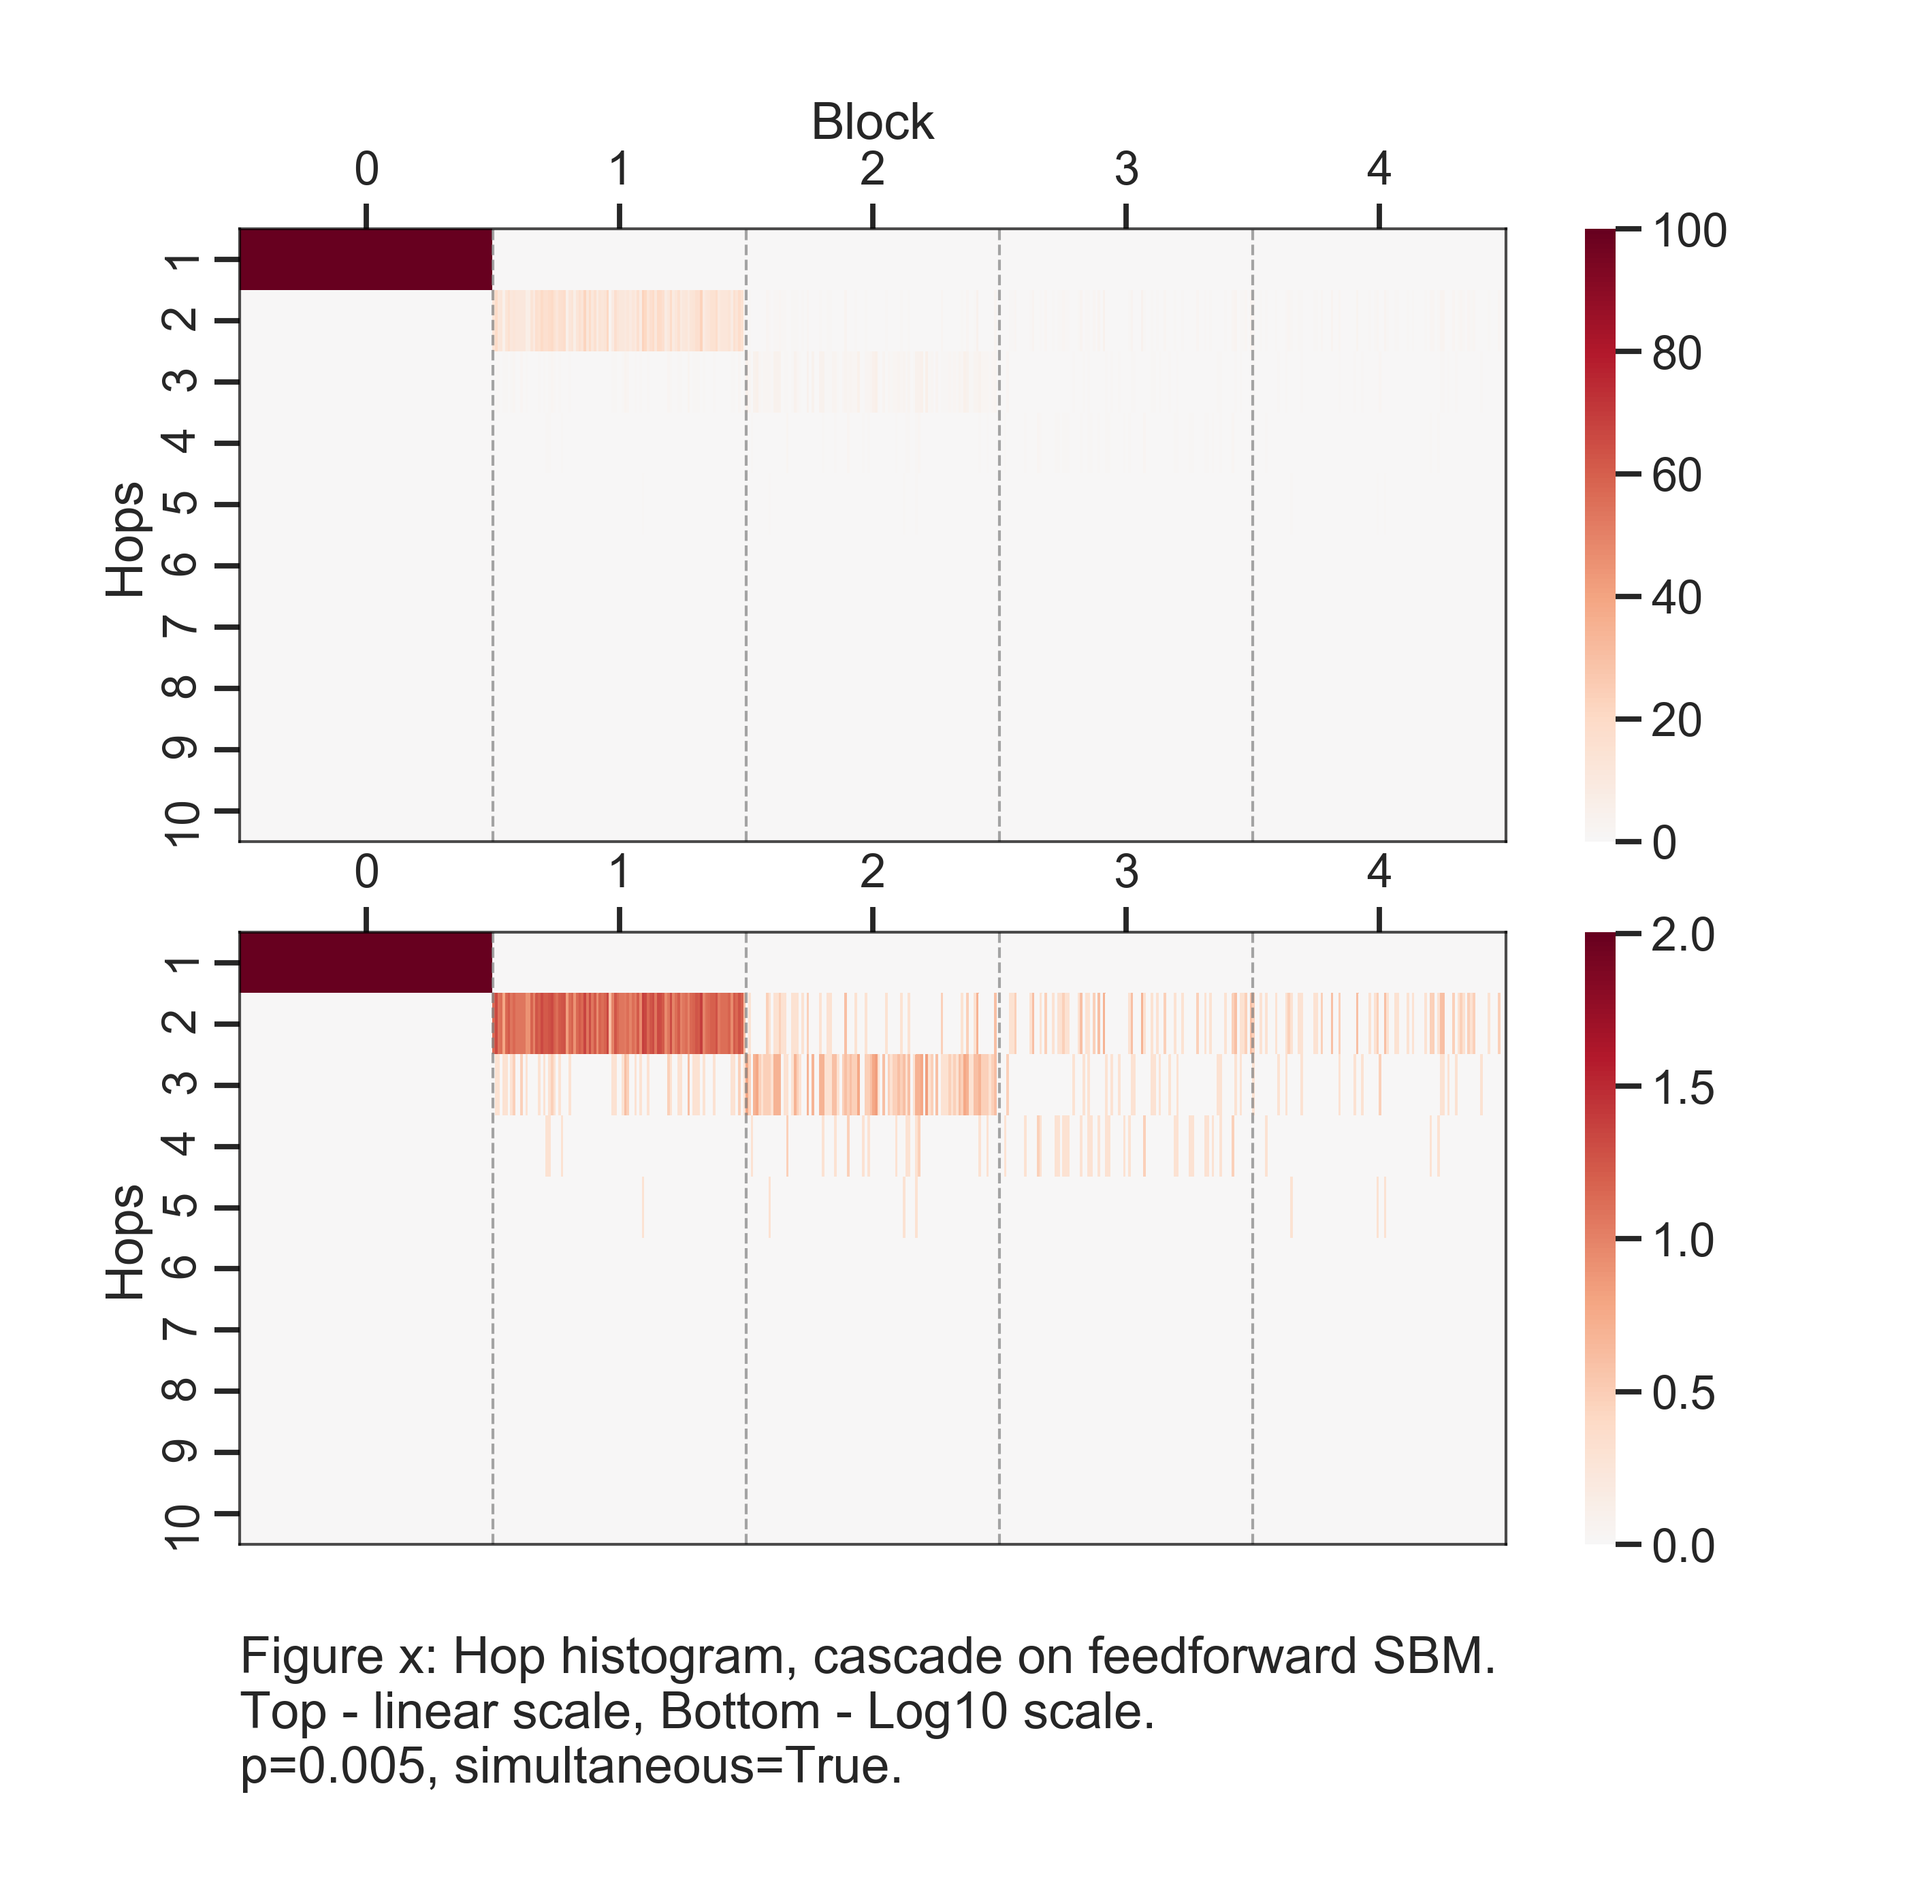
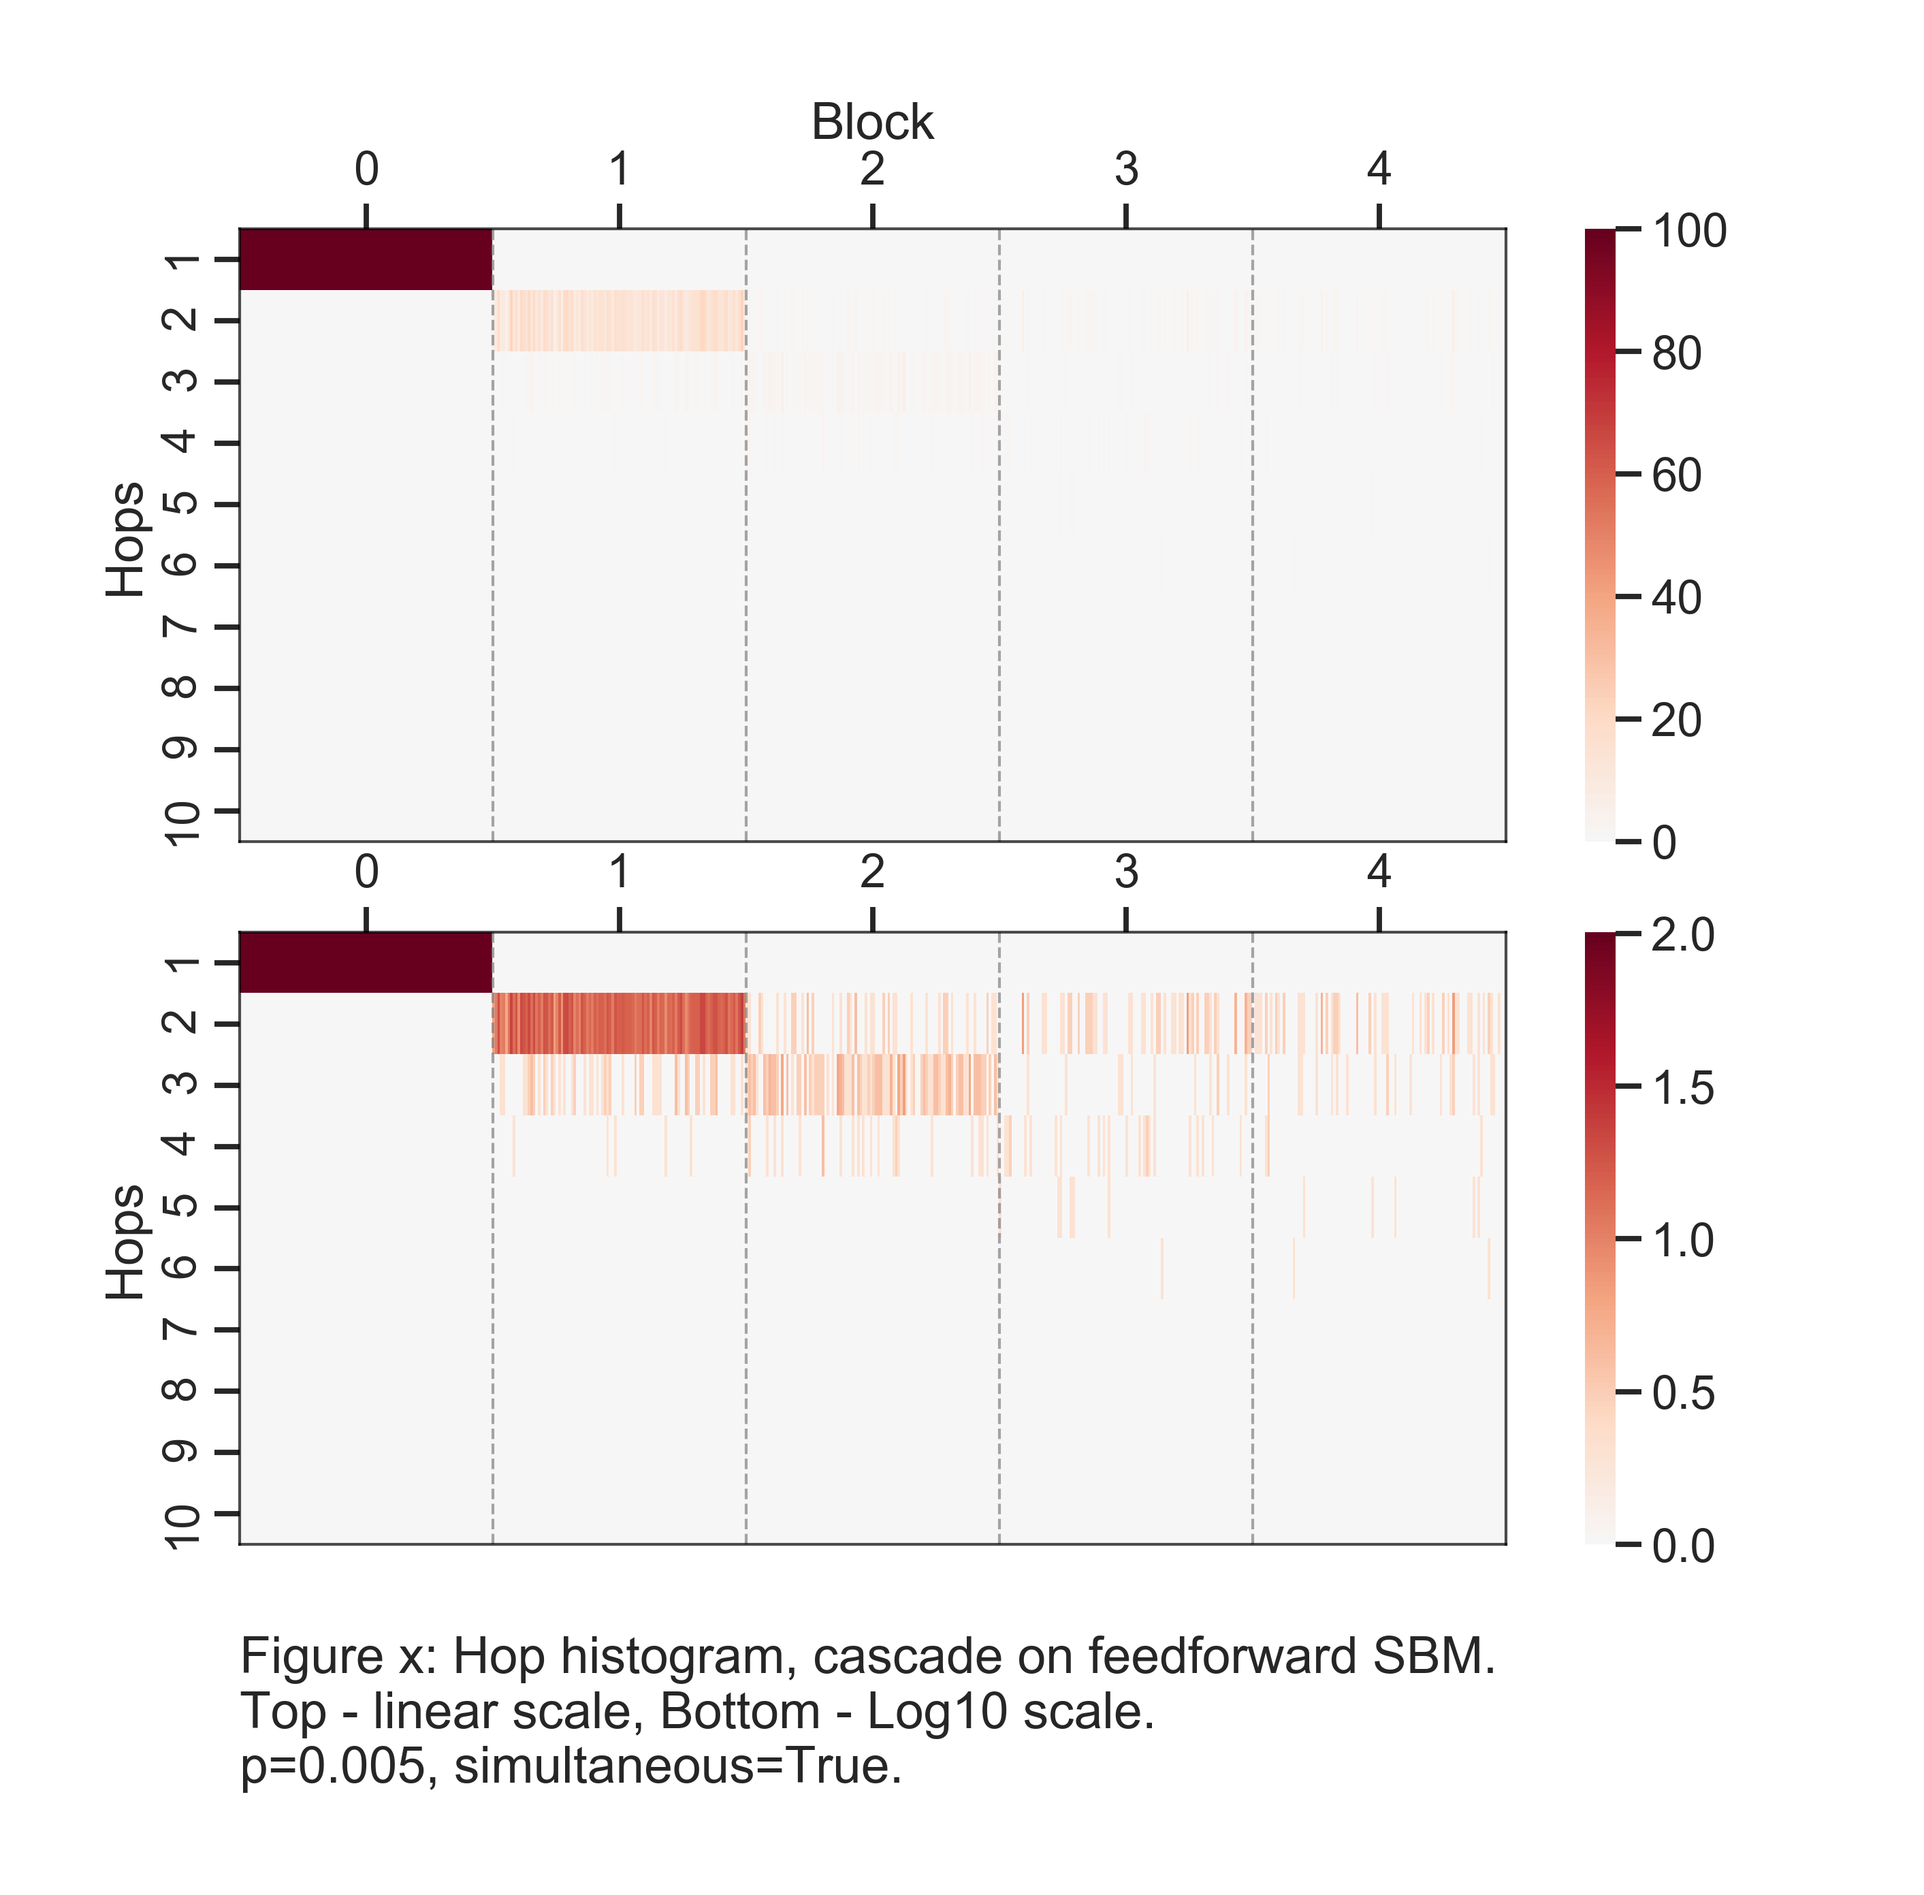
update tutorial

Changed region(s): [[0.2491, 0.5253, 0.7785, 0.6489]]

diff --git a/notebooks/111.0-BDP-revamp-cascade.py b/notebooks/111.0-BDP-revamp-cascade.py
@@ -3,9 +3,7 @@
 import os
 
 import matplotlib.pyplot as plt
-import networkx as nx
 import numpy as np
-import pandas as pd
 import seaborn as sns
 from graspy.simulations import sbm
 from src.io import savefig
@@ -180,29 +178,33 @@ stashfig("sbm")
 
 # %% [markdown]
 # ##
-p = 0.005
+p = 0.05
 max_hops = 10
+n_init = 100
 simultaneous = True
 transition_probs = to_transmission_matrix(A, p)
+start_nodes = np.arange(n_feedforward)
 
-cdispatch = TraverseDispatcher(Cascade, transition_probs, allow_loops=False, n_init=100)
-if simultaneous:
-    hit_hist = cdispatch.start(np.arange(n_feedforward))
-else:
-    hit_hist = np.zeros((n_verts, max_hops))
-    for i in np.arange(n_feedforward):
-        hit_hist += cdispatch.start(i)
+cdispatch = TraverseDispatcher(
+    Cascade,
+    transition_probs,
+    allow_loops=False,
+    n_init=n_init,
+    simultaneous=simultaneous,
+)
+hit_hist = cdispatch.multistart(start_nodes)
+
 fig, axs = plt.subplots(
     3, 1, figsize=(10, 10), gridspec_kw=dict(height_ratios=[0.45, 0.45, 0.1])
 )
 ax = axs[0]
-matrixplot(hit_hist.T, ax=ax, col_meta=labels, cbar=True)
+matrixplot(hit_hist.T, ax=ax, col_sort_class=labels, cbar=True)
 ax.set_xlabel("Block")
 ax.set_yticks(np.arange(1, max_hops + 1) - 0.5)
 ax.set_yticklabels(np.arange(1, max_hops + 1))
 ax.set_ylabel("Hops")
 ax = axs[1]
-matrixplot(np.log10(hit_hist.T + 1), ax=ax, col_meta=labels, cbar=True)
+matrixplot(np.log10(hit_hist.T + 1), ax=ax, col_sort_class=labels, cbar=True)
 ax.set_yticks(np.arange(1, max_hops + 1) - 0.5)
 ax.set_yticklabels(np.arange(1, max_hops + 1))
 ax.set_ylabel("Hops")
@@ -217,32 +219,40 @@ stashfig(f"hop-hist-cascade-p{p}-simult{simultaneous}")
 # %% [markdown]
 # ##
 transition_probs = to_markov_matrix(A)
+start_nodes = np.arange(n_feedforward)
 max_hops = 10
+n_init = 100
+
 cdispatch = TraverseDispatcher(
     RandomWalk,
     transition_probs,
     allow_loops=False,
-    n_init=100,
-    max_hops=10,
+    n_init=n_init,
+    max_hops=max_hops,
     stop_nodes=np.arange((n_blocks - 1) * n_feedforward, n_blocks * n_feedforward),
+    simultaneous=False,
 )
-start_nodes = np.arange(n_feedforward)
-hit_hist = np.zeros((n_verts, max_hops))
-for start_node in start_nodes:
-    hit_hist += cdispatch.start(start_node)
+
+hit_hist = cdispatch.multistart(start_nodes)
+
 fig, axs = plt.subplots(
     3, 1, figsize=(10, 10), gridspec_kw=dict(height_ratios=[0.45, 0.45, 0.1])
 )
 ax = axs[0]
-matrixplot(hit_hist.T, ax=ax, col_meta=labels, cbar=True)
+matrixplot(hit_hist.T, ax=ax, col_sort_class=labels, cbar=True)
 ax.set_xlabel("Block")
 ax.set_ylabel("Hops")
+ax.set_yticks(np.arange(1, max_hops + 1) - 0.5)
+ax.set_yticklabels(np.arange(1, max_hops + 1))
 ax = axs[1]
-matrixplot(np.log10(hit_hist.T + 1), ax=ax, col_meta=labels, cbar=True)
+matrixplot(np.log10(hit_hist.T + 1), ax=ax, col_sort_class=labels, cbar=True)
 ax.set_ylabel("Hops")
+ax.set_yticks(np.arange(1, max_hops + 1) - 0.5)
+ax.set_yticklabels(np.arange(1, max_hops + 1))
 ax = axs[2]
 ax.axis("off")
 caption = f"Figure x: Hop histogram, random walk on feedforward SBM\n"
 caption += "Top - linear scale, Bottom - Log10 scale. "
 ax.text(0, 1, caption, va="top")
 stashfig(f"hop-hist-rw")
+

diff --git a/src/traverse/traverse.py b/src/traverse/traverse.py
@@ -74,8 +74,8 @@ class TraverseDispatcher:
         else:
             n_verts = len(self._worker.transition_probs)
             hop_hist = np.zeros((n_verts, self._worker.max_hops))
-        for s in start_nodes:
-            hop_hist += self.start(s)
+            for s in start_nodes:
+                hop_hist += self.start(s)
         return hop_hist
 
 
